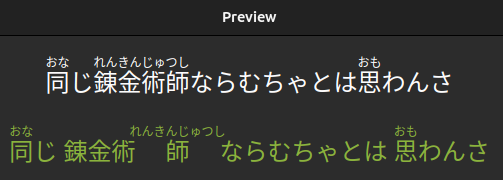
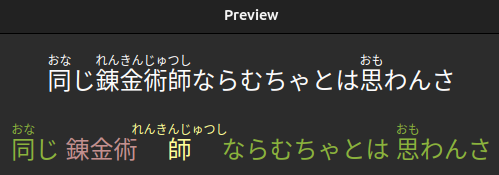
updated docs

diff --git a/docs/src/user_guide/setup/settings/extra-fields.md b/docs/src/user_guide/setup/settings/extra-fields.md
@@ -105,8 +105,10 @@ template, e.g:
 {{furigana:am-highlighted}}
 ```
 
-This does not always work flawlessly, unfortunately. The [known problems](../../known-problems.md) section has more
-details.
+You also have to have the `Ignore content in square brackets` [preprocess setting](preprocess.md) activated.
+
+> **Note**: This does not always work flawlessly. The [known problems](../../known-problems.md) section has more
+details on how to fix ruby character highlighting problems.
 
 ### Duplicate Audio Problem
 

diff --git a/docs/src/contributors.md b/docs/src/contributors.md
@@ -15,7 +15,7 @@ Matt Vs Japan, mortii, Vilhelm-Ian, cocowash.
 ### Bugs reports, feature requests, or other helpful guidance
 
 Vilhelm-Ian, CodeWithMa, ashprice, Aleksej, HQYang1979, soliviantar, buster-blue, rymiel, BorisNA, wrinkledeth,
-cocowash, asayake-b5, quietmansoath, MichaelPetre.
+cocowash, asayake-b5, quietmansoath, MichaelPetre, xofm31.
 
 ### MorphMan (v5.0-qt6-alpha.1)
 

diff --git a/docs/src/user_guide/known-problems.md b/docs/src/user_guide/known-problems.md
@@ -105,7 +105,7 @@
 > split:
 > 錬金術[れんきんじゅ]師[つし]
 > ```
-> then you get this:
+> then `am-highlighted` will produce this instead:
 > 
 > <img src="../img/furigana-bug-fixed.png" alt="image" width="60%" height="auto">
 
